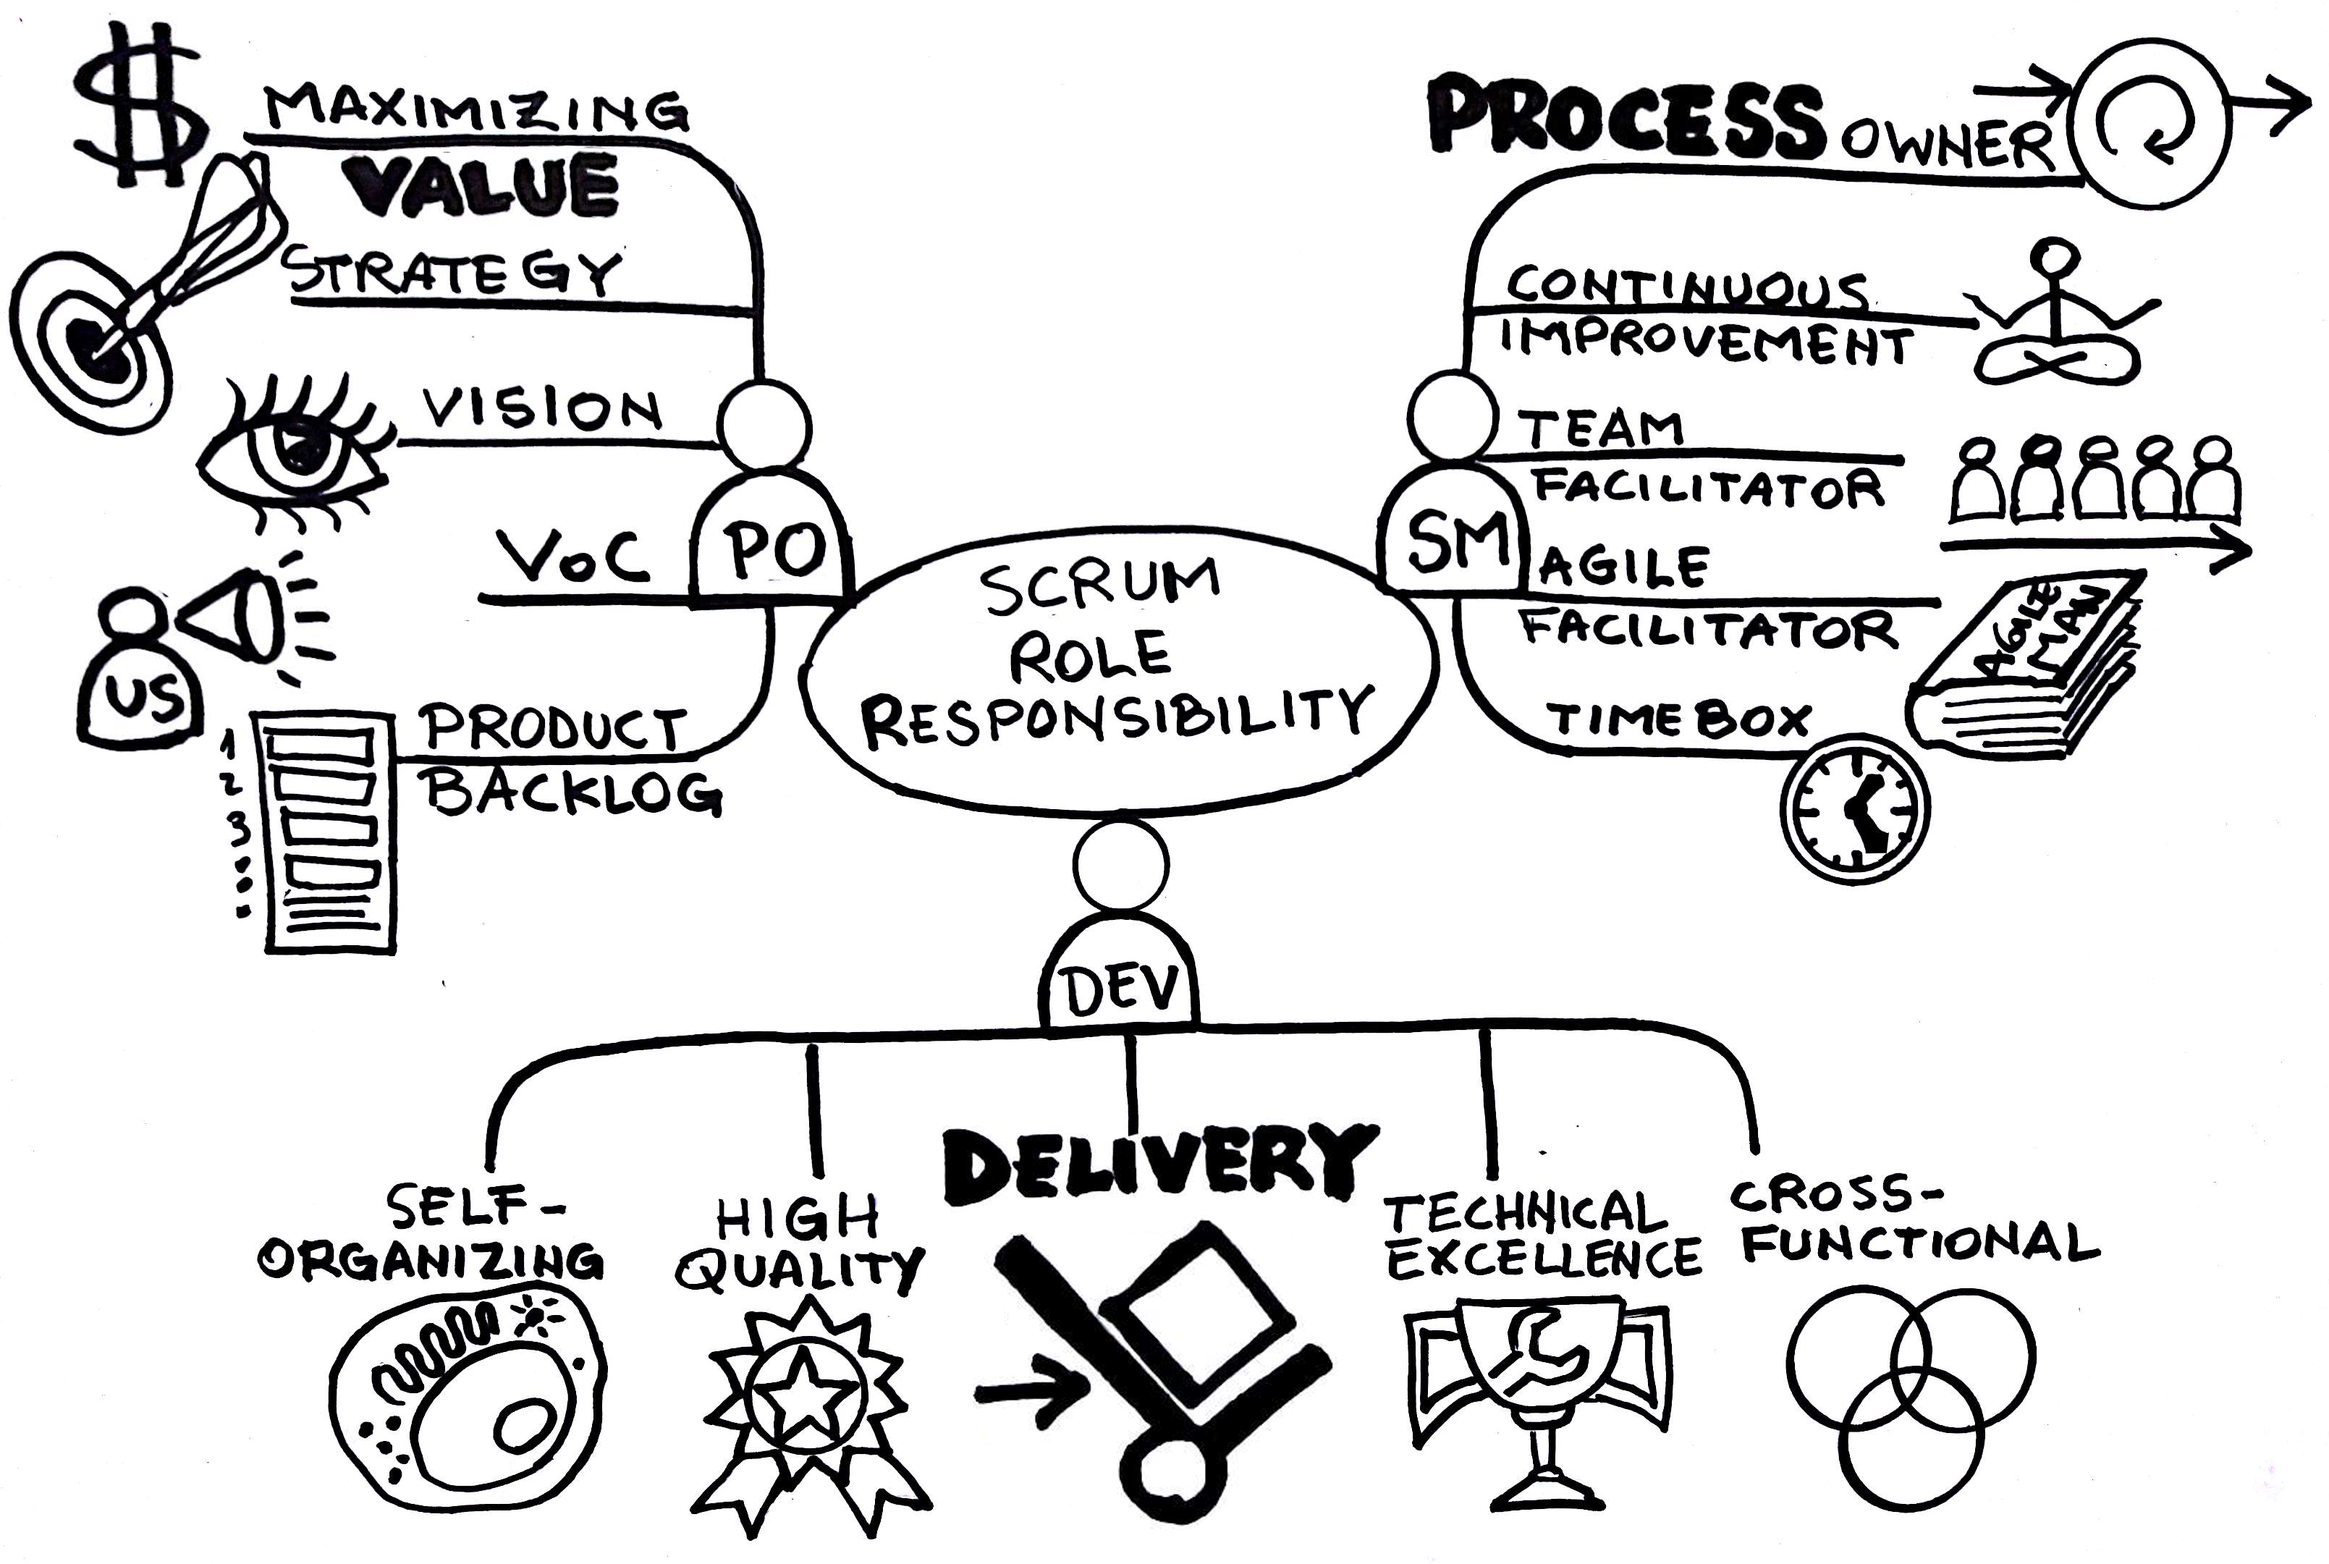
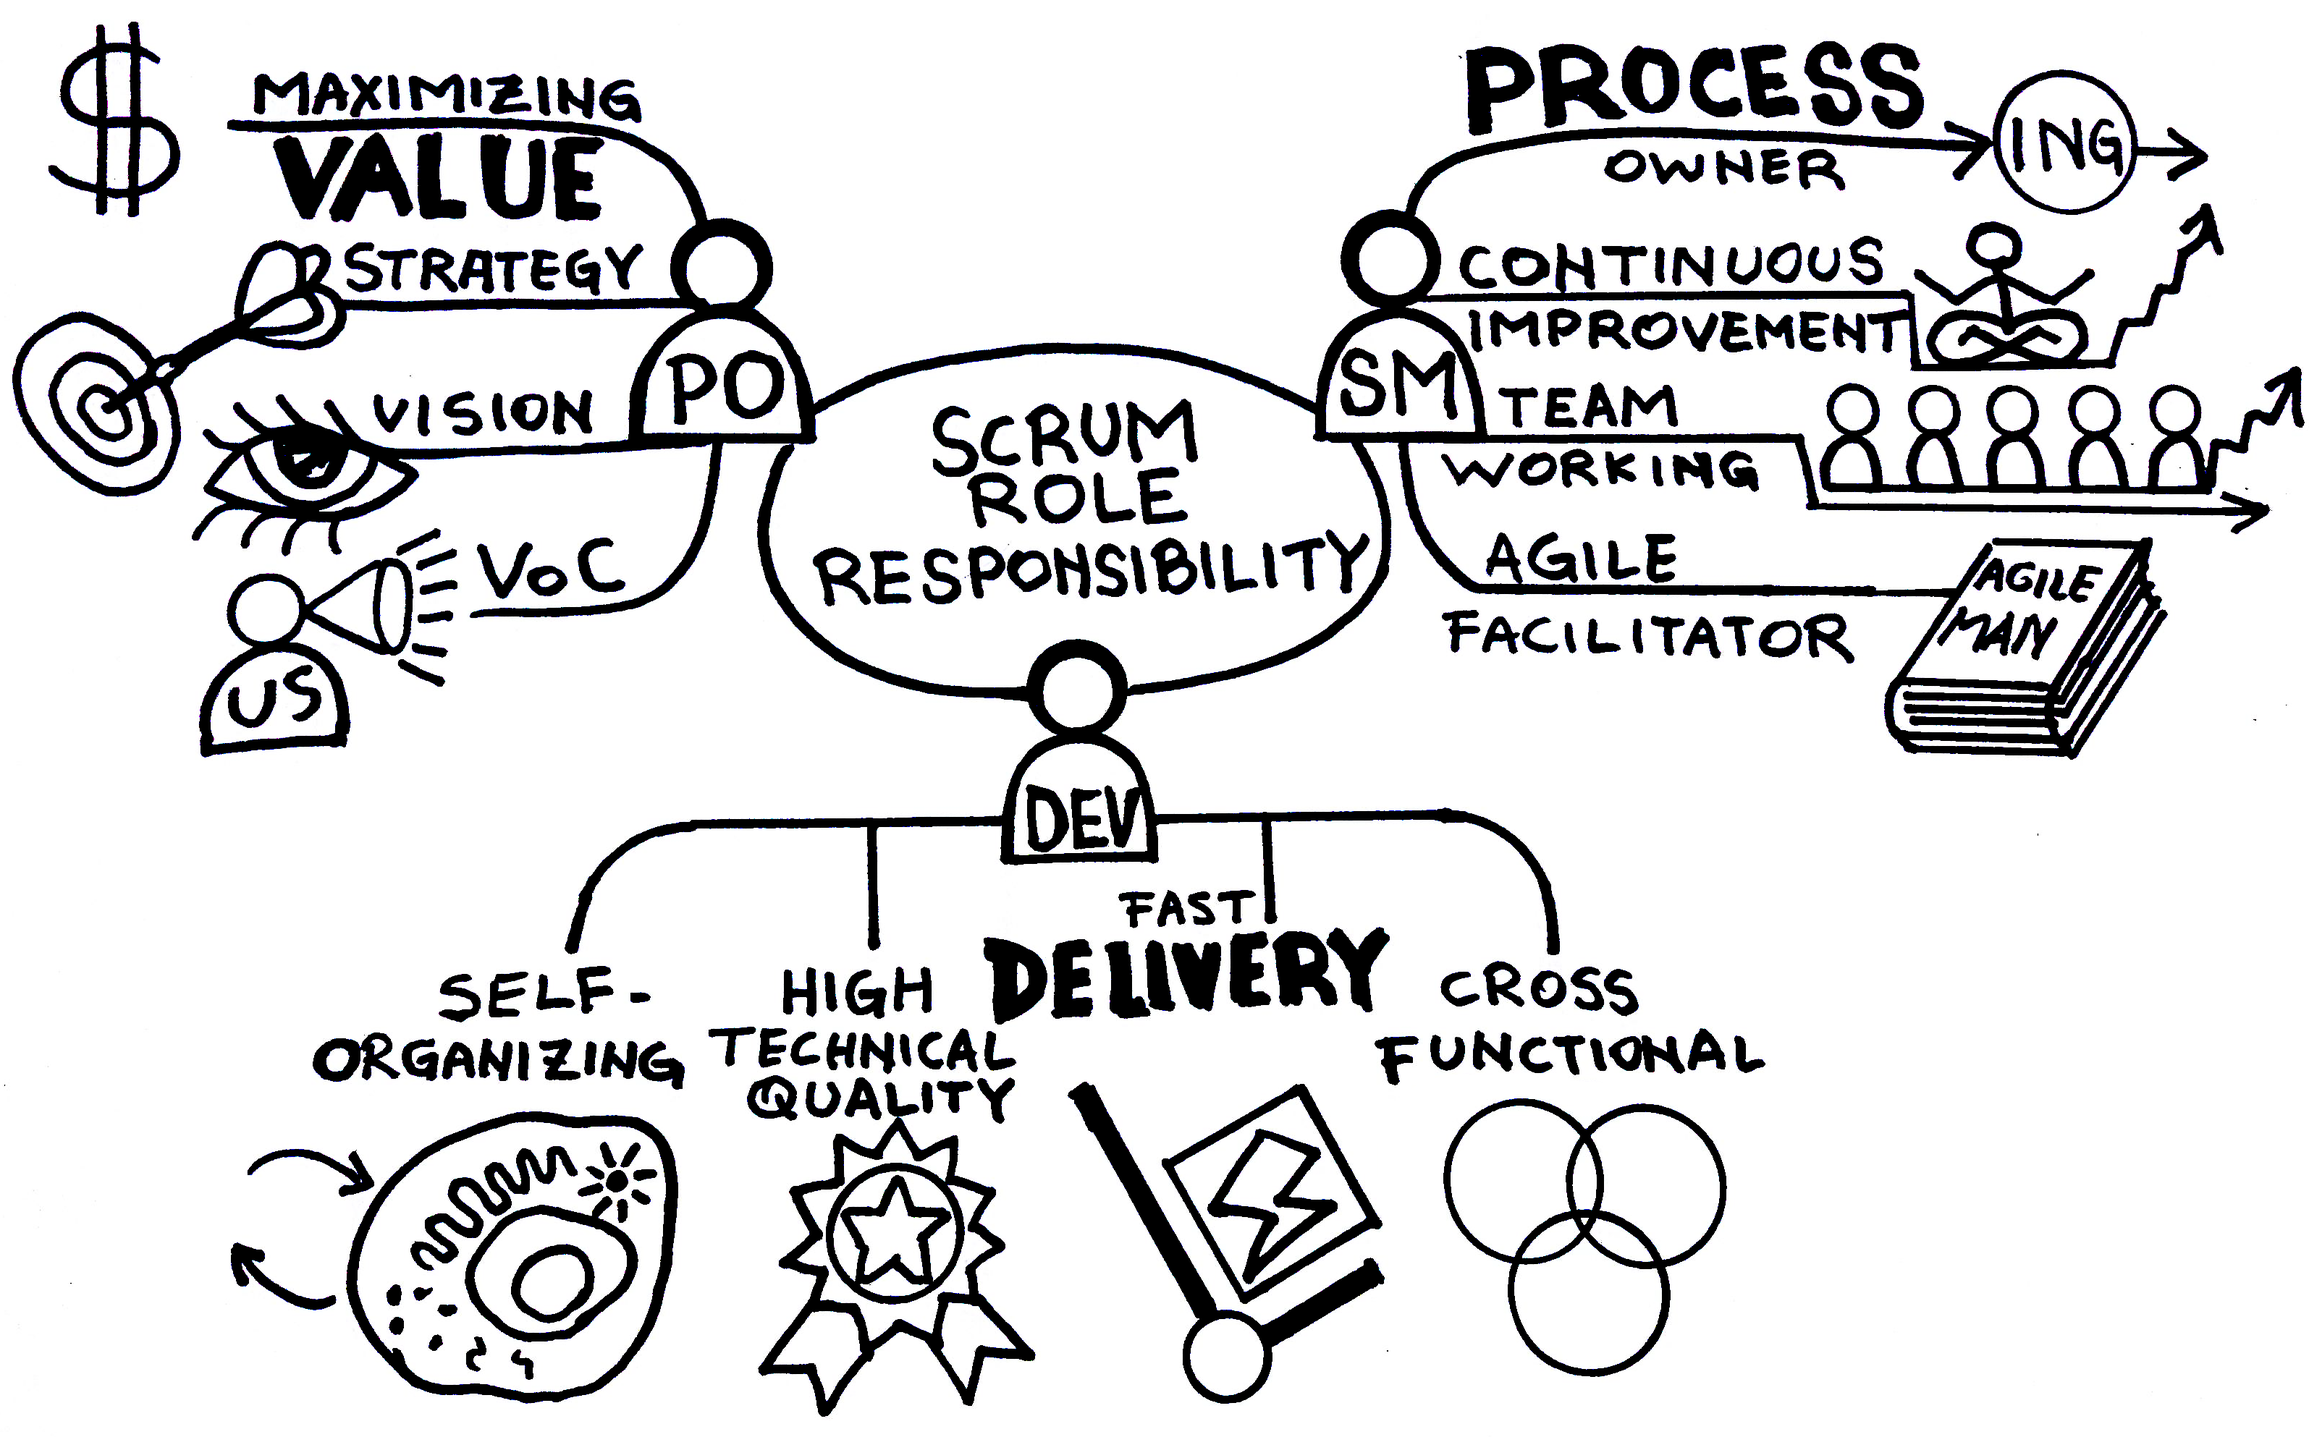
Edit diagram of scrum role responsibility

Changed region(s): [[0.0, 0.0, 1.0, 0.999], [0.869, 0.8429, 0.9, 0.8741]]

diff --git a/content/scrum_system.tex b/content/scrum_system.tex
@@ -134,10 +134,12 @@ Para el cumplimiento del rol SM se deben tener en cuenta las siguientes afirmaci
 \item No asigna tareas, sino que procura que el equipo se las auto-asigne o las tome por voluntad propia y auto-organización.
 \end{itemize}
 
+Se puede ver un resumen del foco de las responsabilidades de los roles en la figura \ref{fig:ScrumRolesResponsibility}.
+
 \begin{figure}
   \centering
-  \includegraphics[width=0.90\textwidth]{ScrumRolesResponsibility}
-  \caption{Gráfico resumen de responsabilidades de roles.}
+  \includegraphics[width=0.95\textwidth]{ScrumRolesResponsibility}
+  \caption{Mapa mental resumen didáctico del foco según las responsabilidades de los roles. El PO se focaliza en maximizar el valor, la estrategia de negocio, la visión y la voz del cliente. El equipo de desarrollo (DEV) se responsabiliza principalmente de la entrega ágil, su auto-organización, la alta calidad técnica (excelencia técnica) y su multidisciplinariedad (trabajo colaborativo no especializado). El SM es dueño del proceso, por lo que se focaliza en el proceso de trabajo e ingeniería, la mejora continua, el trabajo en equipo y la facilitación ágil (referente ágil y de scrum).}
   \centering
   \label{fig:ScrumRolesResponsibility} %\ref{fig:ScrumRolesResponsibility}
 \end{figure}
